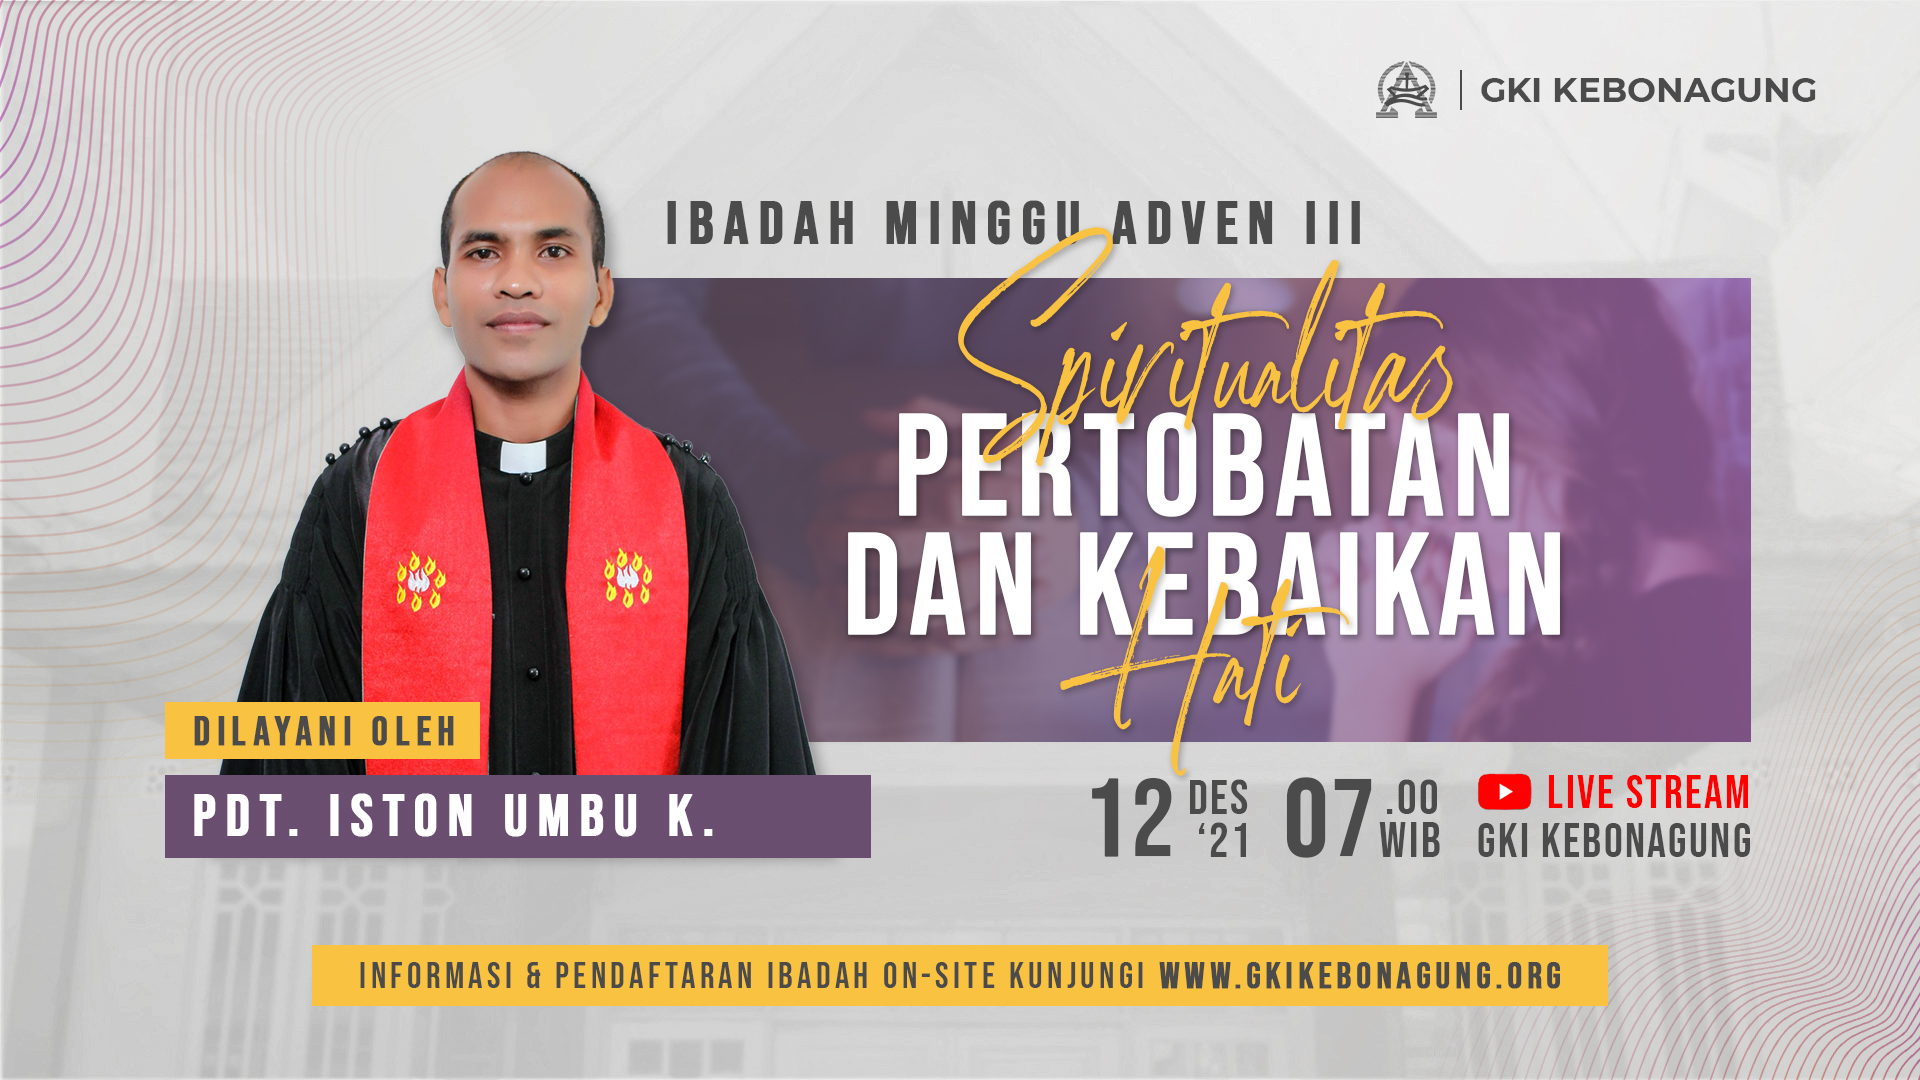
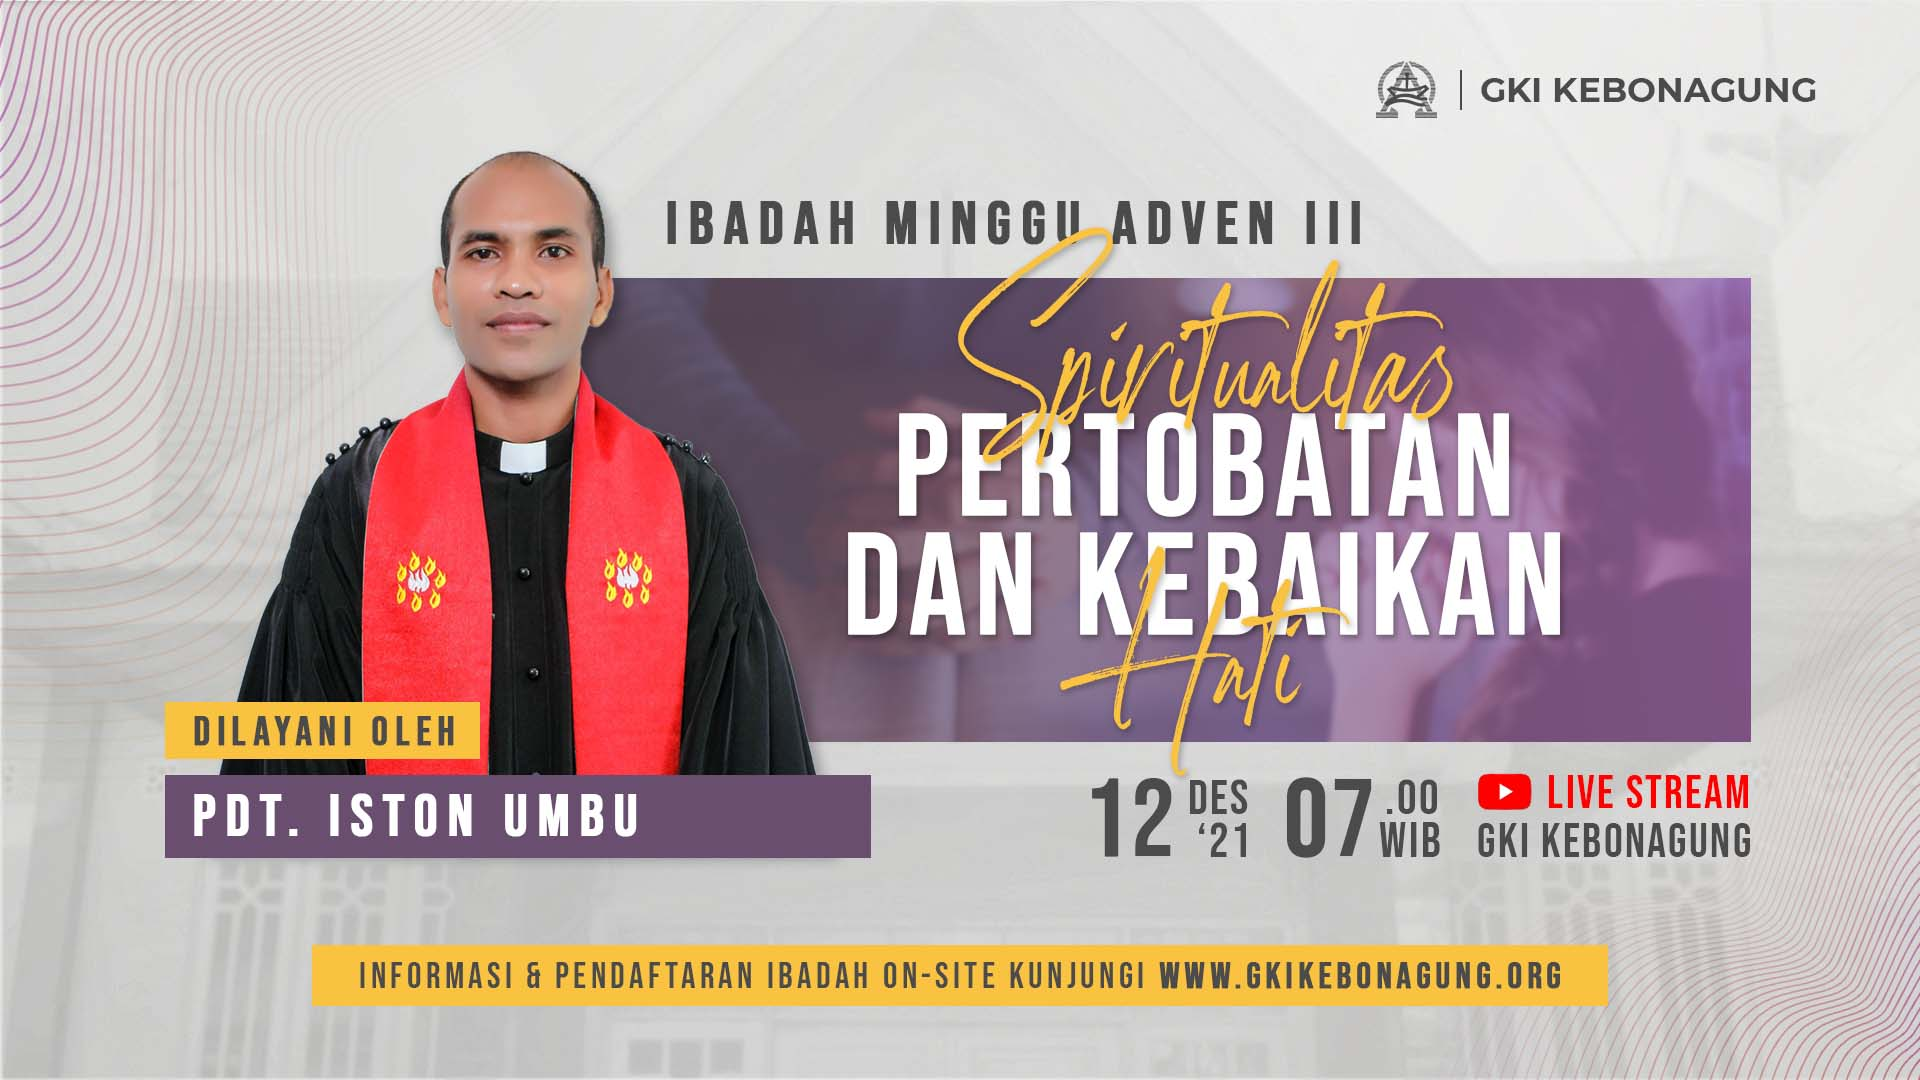
4

diff --git a/application/views/Front/vLandingpage.php b/application/views/Front/vLandingpage.php
@@ -97,7 +97,7 @@
                             <div class="card-body">
                                 <h4 class="card-title">Ibadah Umum</h4>
                                 <!-- UBAH -->
-                                <p class="card-text">Ibadah Minggu Adven III<br>"Spiritualitas Pertobatan dan Kebaikan Hati"<br>Minggu, 12 Desember 2021 - 07.00 WIB<br>Pdt. Iston Umbu Kuralena</p>
+                                <p class="card-text">Ibadah Minggu Adven III<br>"Spiritualitas Pertobatan dan Kebaikan Hati"<br>Minggu, 12 Desember 2021 - 07.00 WIB<br>Pdt. Iston Umbu</p>
                             </div>
                             <div class="card-body">
                                 <!-- UBAH -->
